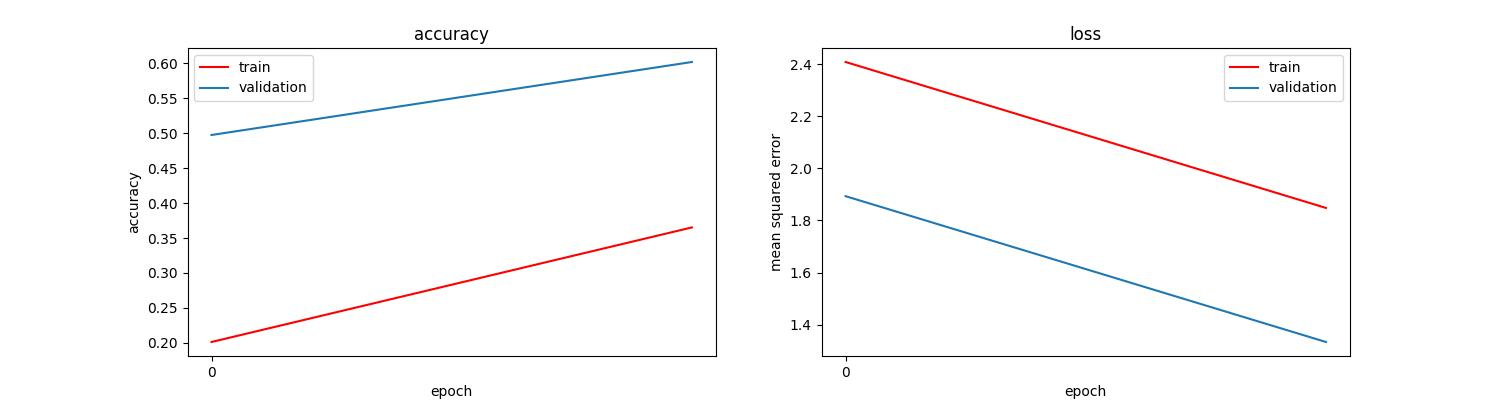
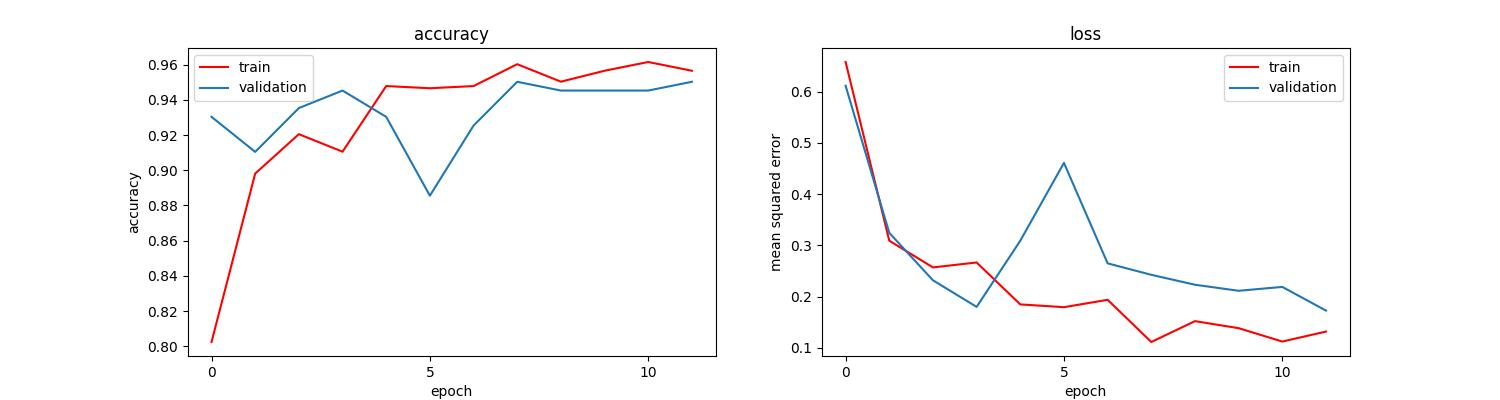
updated model with another 95% accuracy and updated model load function in main

diff --git a/main.py b/main.py
@@ -101,14 +101,6 @@ def get_image(image_num):
 
 ############### RECOMMENDATION API ###############
 
-# Model initialization
-def load_classifier():
-    # load the pre-trained Keras model (here we are using a model
-    # pre-trained on ImageNet and provided by Keras, but you can
-    # substitute in your own networks just as easily)
-    global model
-    model = load_model('model/model.h5')
-
 def preprocessData(data, image_size = 384):
     ## Main Preprocessing function for input images 
     img = cv2.resize(data,(image_size,image_size))
@@ -485,7 +477,7 @@ def create_token():
 ############### END OF USERS API ###############
 
 if __name__ == '__main__':
-    load_classifier()
+    model = load_model('model/model.h5')
     app.run(
         # 'localhost',
         port=os.getenv("PORT", default=8000)
